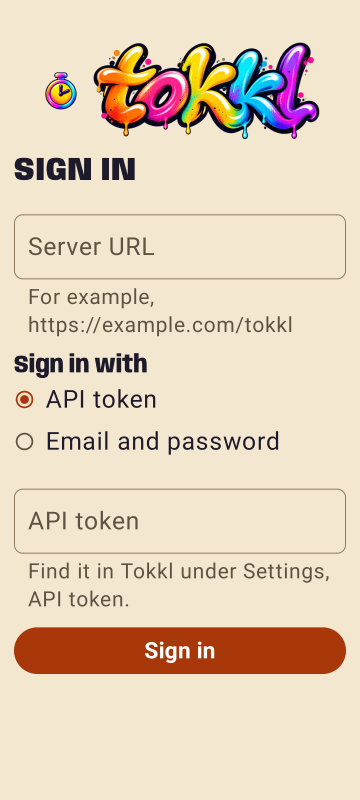
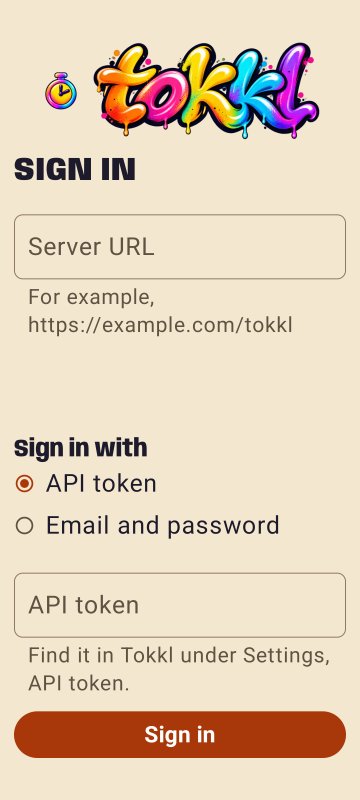
fix(sign-in): keep each supporting line as tall as its tallest text
At font scale 2.0 the email hint wraps to two lines and "Enter your
email." fits on one, so an empty-email submit moved the password field
and the button up by 32dp. The server URL field had the same problem
the other way at every font scale: its error runs to more lines than its
hint, so a bad URL pushed the form down.

Each sign-in field's supporting line now lays out the hint and every
error the field can show, one over the other, and shows only the current
one. The others are invisible and have no semantics, so the line keeps
the tallest one's height and TalkBack reads only what shows. isError
still follows the error.

The email field keeps its height: LargestFontScaleTest.emailErrorFits
now checks the password field's position at 200% (it moved from 172.6dp
to 140.6dp below the email field before this change), and
SignInScreenTest checks at 100% that the field reads the hint or the
error, never both. The API token and password hints are already taller
than their errors, so those fields look the same. The server URL line
now keeps room for its error, which shows as blank space under the hint.

References re-recorded for that space under the server URL hint: sign-in
with API token and with email, light and dark, at 100% and 200%.

Refs: TKA-0149

diff --git a/app/src/main/java/com/github/e0ipso/tokkl/signin/SignInScreen.kt b/app/src/main/java/com/github/e0ipso/tokkl/signin/SignInScreen.kt
@@ -2,6 +2,7 @@ package com.github.e0ipso.tokkl.signin
 
 import androidx.annotation.StringRes
 import androidx.compose.foundation.layout.Arrangement
+import androidx.compose.foundation.layout.Box
 import androidx.compose.foundation.layout.Column
 import androidx.compose.foundation.layout.consumeWindowInsets
 import androidx.compose.foundation.layout.fillMaxSize
@@ -25,9 +26,11 @@ import androidx.compose.runtime.getValue
 import androidx.compose.runtime.produceState
 import androidx.compose.ui.Alignment
 import androidx.compose.ui.Modifier
+import androidx.compose.ui.draw.alpha
 import androidx.compose.ui.platform.LocalSoftwareKeyboardController
 import androidx.compose.ui.res.pluralStringResource
 import androidx.compose.ui.res.stringResource
+import androidx.compose.ui.semantics.clearAndSetSemantics
 import androidx.compose.ui.semantics.heading
 import androidx.compose.ui.semantics.semantics
 import androidx.compose.ui.text.input.ImeAction
@@ -139,10 +142,10 @@ private fun SignInForm(
                 onValueChange = onServerUrlChange,
                 label = { Text(stringResource(R.string.sign_in_server_url)) },
                 supportingText = {
-                    Text(
-                        stringResource(
-                            if (InputError.SERVER_URL in errors) R.string.sign_in_error_server_url else R.string.sign_in_server_url_hint,
-                        ),
+                    SupportingLine(
+                        hint = R.string.sign_in_server_url_hint,
+                        error = R.string.sign_in_error_server_url.takeIf { InputError.SERVER_URL in errors },
+                        errors = listOf(R.string.sign_in_error_server_url),
                     )
                 },
                 isError = InputError.SERVER_URL in errors,
@@ -161,7 +164,8 @@ private fun SignInForm(
                     onValueChange = onApiTokenChange,
                     label = R.string.sign_in_api_token,
                     hint = R.string.sign_in_api_token_hint,
-                    error = R.string.sign_in_error_api_token.takeIf { InputError.API_TOKEN in errors },
+                    error = R.string.sign_in_error_api_token,
+                    showError = InputError.API_TOKEN in errors,
                     keyboardActions = submitFromKeyboard,
                 )
                 SignInMethod.EMAIL_PASSWORD -> {
@@ -174,8 +178,13 @@ private fun SignInForm(
                         value = state.email,
                         onValueChange = onEmailChange,
                         label = { Text(stringResource(R.string.sign_in_email)) },
-                        // Always there, with the hint or the error, so an error does not move the fields below.
-                        supportingText = { Text(stringResource(emailError ?: R.string.sign_in_email_hint)) },
+                        supportingText = {
+                            SupportingLine(
+                                hint = R.string.sign_in_email_hint,
+                                error = emailError,
+                                errors = listOf(R.string.sign_in_error_email, R.string.sign_in_error_email_colon),
+                            )
+                        },
                         isError = emailError != null,
                         singleLine = true,
                         keyboardOptions = KeyboardOptions(
@@ -190,7 +199,8 @@ private fun SignInForm(
                         onValueChange = onPasswordChange,
                         label = R.string.sign_in_password,
                         hint = R.string.sign_in_password_hint,
-                        error = R.string.sign_in_error_password.takeIf { InputError.PASSWORD in errors },
+                        error = R.string.sign_in_error_password,
+                        showError = InputError.PASSWORD in errors,
                         keyboardActions = submitFromKeyboard,
                     )
                 }
@@ -243,15 +253,16 @@ private fun SecretField(
     onValueChange: (String) -> Unit,
     @StringRes label: Int,
     @StringRes hint: Int,
-    @StringRes error: Int?,
+    @StringRes error: Int,
+    showError: Boolean,
     keyboardActions: KeyboardActions,
 ) {
     OutlinedTextField(
         value = value,
         onValueChange = onValueChange,
         label = { Text(stringResource(label)) },
-        supportingText = { Text(stringResource(error ?: hint)) },
-        isError = error != null,
+        supportingText = { SupportingLine(hint = hint, error = error.takeIf { showError }, errors = listOf(error)) },
+        isError = showError,
         singleLine = true,
         visualTransformation = PasswordVisualTransformation(),
         keyboardOptions = KeyboardOptions(
@@ -262,6 +273,23 @@ private fun SecretField(
         keyboardActions = keyboardActions,
         modifier = Modifier.fillMaxWidth(),
     )
+}
+
+/**
+ * A field's supporting line: [error] when there is one, else [hint]. It always takes the height of
+ * the tallest of [hint] and [errors], every error the field can show, at the current width and
+ * font scale, so showing or clearing an error never moves the fields below. The lines not shown
+ * are laid out invisible and left out of semantics, so TalkBack reads only the one that shows.
+ */
+@Composable
+private fun SupportingLine(@StringRes hint: Int, @StringRes error: Int?, @StringRes errors: List<Int>) {
+    val shown = error ?: hint
+    Box {
+        for (line in listOf(hint) + errors) {
+            if (line != shown) Text(stringResource(line), Modifier.alpha(0f).clearAndSetSemantics {})
+        }
+        Text(stringResource(shown))
+    }
 }
 
 /** The message under the form, or null for a result that the screen shows in a dialog or not at all. */

diff --git a/app/src/androidTest/java/com/github/e0ipso/tokkl/ui/theme/LargestFontScaleTest.kt b/app/src/androidTest/java/com/github/e0ipso/tokkl/ui/theme/LargestFontScaleTest.kt
@@ -29,6 +29,7 @@ import androidx.compose.ui.test.performScrollTo
 import androidx.compose.ui.test.performSemanticsAction
 import androidx.compose.ui.test.performTextInput
 import androidx.compose.ui.text.TextLayoutResult
+import androidx.compose.ui.unit.Dp
 import androidx.compose.ui.unit.DpRect
 import androidx.compose.ui.unit.dp
 import androidx.test.platform.app.InstrumentationRegistry
@@ -180,8 +181,10 @@ class LargestFontScaleTest {
     }
 
     /**
-     * The error that replaces the email hint after an empty email. It may take another number of
-     * lines than the hint (TKA-0149), so only its fit is checked here.
+     * The error that replaces the email hint after an empty email. At this size the hint takes two
+     * lines and the error one, and the supporting line keeps the taller one's height, so the
+     * password field stays where it was. The offset is from the email field to the password
+     * field, so a scroll or the keyboard moving both does not count.
      */
     @SignedOut
     @Test
@@ -191,8 +194,10 @@ class LargestFontScaleTest {
         choice(R.string.sign_in_method_email_password).performClick()
         field(R.string.sign_in_server_url).performScrollTo().performTextInput(TokklTestServer.url.toString())
         field(R.string.sign_in_password).performScrollTo().performTextInput(TokklTestServer.password)
+        val before = passwordOffset()
         composeRule.onNode(hasText(string(R.string.sign_in_submit)) and hasClickAction()).performScrollTo().performClick()
         composeRule.awaitText(string(R.string.sign_in_error_email))
+        assertEquals("the password field moved when the email error showed", before.value, passwordOffset().value, SLACK.value)
 
         assertFitWhenScrolledTo(
             blocks = signInBlocks(
@@ -353,6 +358,10 @@ class LargestFontScaleTest {
 
     private fun field(@StringRes label: Int): SemanticsNodeInteraction =
         composeRule.onNode(hasSetTextAction() and hasText(string(label)))
+
+    /** How far below the email field's top the password field's top is. */
+    private fun passwordOffset(): Dp =
+        field(R.string.sign_in_password).getUnclippedBoundsInRoot().top - field(R.string.sign_in_email).getUnclippedBoundsInRoot().top
 
     /** A radio button, by its label. */
     private fun choice(@StringRes label: Int): SemanticsNodeInteraction =

diff --git a/app/src/androidTest/java/com/github/e0ipso/tokkl/signin/SignInScreenTest.kt b/app/src/androidTest/java/com/github/e0ipso/tokkl/signin/SignInScreenTest.kt
@@ -191,11 +191,13 @@ class SignInScreenTest {
         composeRule.onNode(hasText(string(R.string.sign_in_method_email_password)) and isSelectable()).performClick()
         enterServerUrl()
         val before = passwordOffset()
+        assertEmailFieldReads(R.string.sign_in_email_hint, not = R.string.sign_in_error_email)
 
         submit()
         composeRule.onNode(hasText(string(R.string.sign_in_error_email)), useUnmergedTree = true).assertExists()
         // The field's error semantics make TalkBack announce it.
         field(R.string.sign_in_email).assert(SemanticsMatcher.keyIsDefined(SemanticsProperties.Error))
+        assertEmailFieldReads(R.string.sign_in_error_email, not = R.string.sign_in_email_hint)
         val withError = passwordOffset()
         field(R.string.sign_in_email).performTextInput(TokklTestServer.email)
         composeRule.onNode(hasText(string(R.string.sign_in_error_email)), useUnmergedTree = true).assertDoesNotExist()
@@ -296,6 +298,13 @@ class SignInScreenTest {
     /** The text field whose label is [label]. */
     private fun field(@StringRes label: Int): SemanticsNodeInteraction =
         composeRule.onNode(hasSetTextAction() and hasText(string(label)))
+
+    /** TalkBack reads [shown] with the email field, and never [not], which the line only reserves room for. */
+    private fun assertEmailFieldReads(@StringRes shown: Int, @StringRes not: Int) {
+        val read = field(R.string.sign_in_email).fetchSemanticsNode().config.getOrNull(SemanticsProperties.Text).orEmpty().map { it.text }
+        assertTrue("the email field does not read \"${string(shown)}\"", string(shown) in read)
+        assertFalse("the email field reads \"${string(not)}\"", string(not) in read)
+    }
 
     /** How far below the email field's top the password field's top is. */
     private fun passwordOffset(): Dp =
